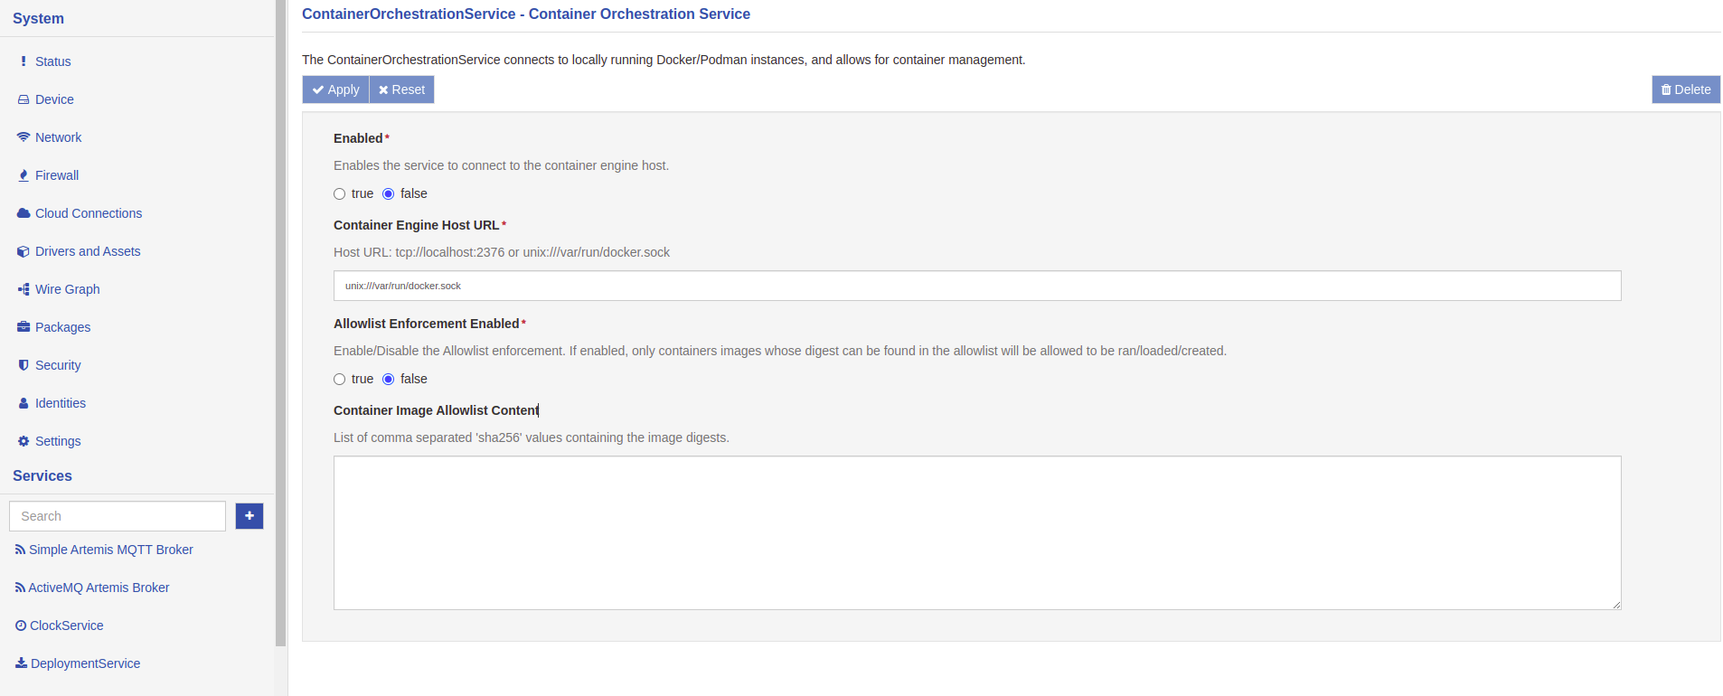
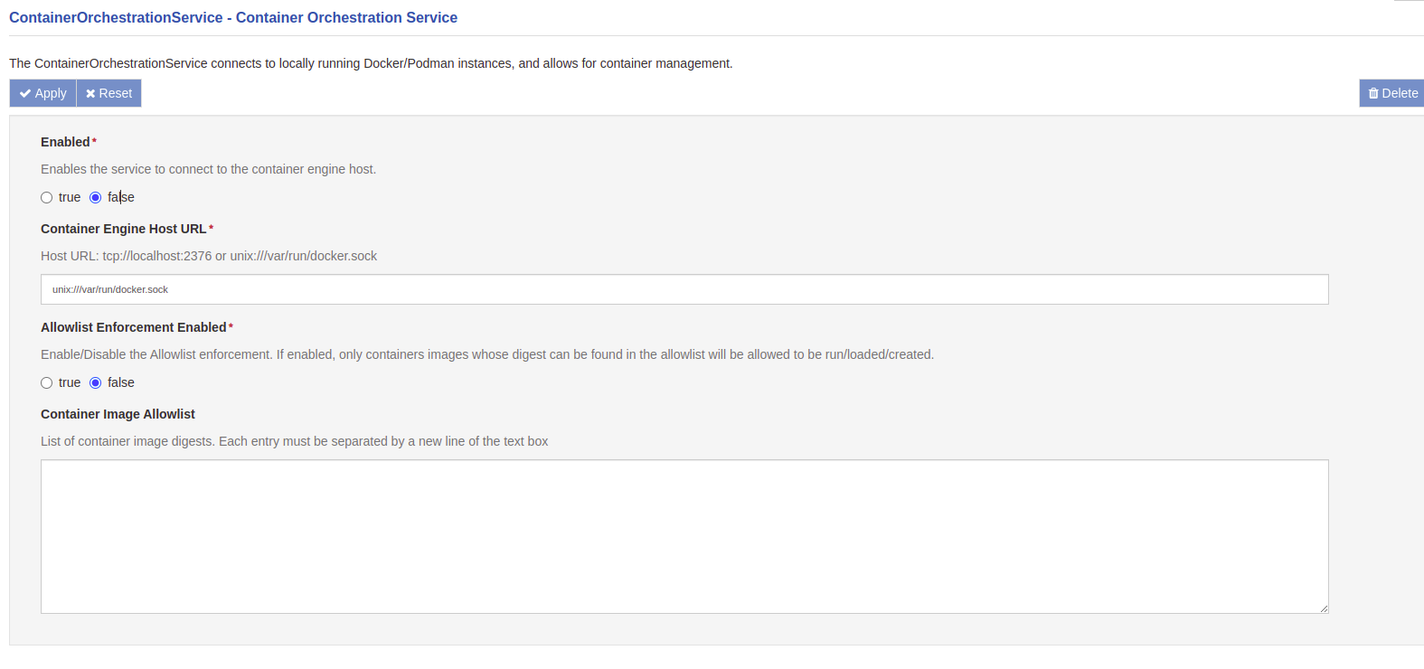
docs: added documentation for container authenticity and enforcement allowlist (#5205)
* docs: add page for container auth and allowlist features

* docs: add docs about managed containers

* docs: possible merge between already present docs and primal contribution

* docs: removed auth from usage and added signature verification examples

* docs: fixed wrong images name

* docs: apply suggestions from code review

* docs: updated with suggestions

* refactor: minor rewording

---------

diff --git a/docs/core-services/container-orchestration-image-auth.md b/docs/core-services/container-orchestration-image-auth.md
@@ -1,0 +1,139 @@
+# Eclipse Eclipse Kura Container Image Authenticity and Allowlist Enforcement feature
+
+Containerized applications are becoming increasingly popular in the software ecosystem as a way to deploy and distrubute applications. As a result, ensuring the security of software supply chains has become a critical concern. Implementing best practices, such as signing and verifying images to mitigate man-in-the-middle (MITM) attacks and validating their authenticity and freshness, play a pivotal role in safeguarding the integrity of the software supply chain.
+
+To ensure the authenticity and integrity of the code within the container images, binding the image to a specific entity or organization via signature verification is crucial and increasingly common.
+
+The purpose of this document is to provide a high-level understanding of the Eclipse Kura container authenticity and allowlist enforcement feature introduced with **Eclipse Kura version 5.5.0**.
+
+## High-level flow
+
+The Eclipse Kura container authenticity and allowlist enforcement feature is designed to address container authenticity concerns by providing a mechanism to perform the signature verification of container images and restricting which container images can be deployed on the Eclipse Kura instance.
+
+This is achieved by implementing the following flow:
+
+![](./images/container-auth-high-level-flow.png){ width="600" }
+
+Description of the flow:
+
+- **Monitoring**: Eclipse Kura monitors the container engine events. When a "container start" event is triggered it intercepts the information regarding the image used to spin up the container and starts performing the container authenticity checks.
+- **Allowlist**: Firstly, it checks if the digest of the image used to run the container can be found in the Eclipse Kura allowlist. If so, the container is allowed to run. If not, Eclipse Kura proceeds with the image signature verification.
+- **Signature verification**: If no trust anchor (i.e. a public key or a X509 certificate depending on the signature mechanism) is available for the verification process to happen, the container is not allowed to run. If one is available, the image signature is verified and the allowlist is updated accordingly.
+
+This flow applies to both containers managed by Eclipse Kura itself and containers ran directly by the user via CLI, allowing for a fine-grained control over the container images that can be deployed on the Eclipse Kura instance.
+
+- **Unmanaged containers**: Eclipse Kura allows the user to define a list of container images that can be deployed on the platform. This is done by adding the image digests to the allowlist. When a container is started, Eclipse Kura checks if the image digest is in the allowlist and, if so, allows the container to run. This is meant to be used by users who, for any reason, need to run a container _outside_ the Eclipse Kura framework but still want the safety guarantees provided by pinning the images to a specific digest.
+- **Managed containers**: For containers ran by the framework, Eclipse Kura also allows the user to provide a trust anchor to be used for the signature verification process. This allows the user to use a _mutable_ tag when specifying the container image, without giving up the required authenticity checks. Once the image is verified, its digest is stored within the Eclipse Kura allowlist, permitting it to be ran both from Eclipse Kura and the CLI without the need for an Internet connection. When a new image is published, the user can simply trigger the pull. The verification process will update the digest automatically.
+
+Note that the user can still directly provide an image digest when running an Eclipse Kura-managed container. This will prevent the Eclipse Kura automatic signature verification process to run. This feature is meant to be used when:
+
+- the user already ensured the image authenticity and does not want to go through the verification process again
+- the image was not signed but the user still wants the enforcement trust guarantees provided by Eclipse Kura
+
+## Unmanaged containers
+
+Regarding the containers not managed by Eclipse Kura, the Container Orchestration service provides a security feature which enforces the containers allowed to run on the system. This feature can be enabled or disabled through the `Allowlist Enforcement Enabled` option.
+
+This mechanism leverages the concept of _digest_, which is a unique and immutable identifier for a container image: it is therefore an excellent mean to identify the image from which a container was created.
+
+Given the above, Eclipse Kura allows the user to provide a list of container image digests in the `Container Image Allowlist` field, in the form of newline-separated strings: when a container is started on the host system (whether it is launched by Eclipse Kura or by a terminal CLI), Eclipse Kura retrieves the image from which the container was created, extracts the digest and verifies that it is present in the allowlist provided during service configuration.
+
+If the image digest is present and matches the container's one, it is then allowed to run without interference. Otherwise, it is immediately stopped and deleted from the host system.
+
+A similar behaviour is performed at Eclipse Kura startup or when the enforcement is enabled at runtime: if there are already containers on the device (whether they are started or stopped) and the enforcement is activated, Eclipse Kura extracts the digests from the containers and compares them with those in the allowlist. Containers that have been created from images whose digests are in the allowlist will be left running, otherwise they will be stopped and deleted from the descriptors list.
+
+The verification is performed by intersecting the list of digests extracted by the containers and the one provided in the configuration: in this way, an empty intersection will result in a failing verification, while a non-empty one means that the image digests is equal to one of the allowlist entries.
+
+![Enforcement Flow](./images/container-orchestration-provider-enforcement-flow.png)
+
+### Example scenarios
+
+A user wants to leverage the container enforcement in order to let only docker containers started from an image named `foo_image` to be run on the device. To do this, they should enable the Container Enforcement by setting the `Allowlist Enforcement Enabled` to `true`, and fill the `Container Image Allowlist` field with the digest of the `foo_image` docker image (i.e.`sha256:0000000000000000000000000000000000000000000000000000000000000000` in the example below).
+
+![Container Orchestration Provider Enforcement](./images/container-orchestration-provider-enforcement.png)
+
+#### Startup of the Enforcement Feature
+
+Let's suppose that on the device there are already two containers running, one created from the `foo_image` an one from an image named `unwanted_image` with digest `sha256:9999999999999999999999999999999999999999999999999999999999999999`. Once the enforcement starts with the configuration previously described, it extracts the digests of both containers and checks if they're included in the provided allowlist: in this case, the container originating from the `foo_image` will be allowed to run, while the one created from the `unwanted_image` will be stopped and deleted, because its digest is not included in the allowlist.
+
+The same happens also for already stopped containers: if the digests is verified, they'll be left in the descriptors list in the Stopped state, otherwise they'll be deleted.
+
+#### Running Container After Enforcement Feature Startup
+
+After the starting phase just described, Eclipse Kura will continuously monitor the activity of the docker engine. Whenever a container is started on the device, it will check the image digest from which the container was created, comparing it to the ones inside the allowlist: if the container is created from the `foo_image` docker image, it will be allowed to start, otherwise it will be stopped and deleted. If the user wants to add more than one allowed image, for example one named `wanted_image` with digest `sha256:1111111111111111111111111111111111111111111111111111111111111111`), it just needs to add it to the newline-separated list.
+
+![Container Orchestration Provider Enforcement Multiple Digests](./images/container-orchestration-provider-enforcement-multiple-digests.png)
+
+
+## Managed containers
+
+As explained in the previous section, Managed Containers (i.e. `org.eclipse.kura.container.provider.ContainerInstance`s) support Container Signature validation. To do so a new API has been introduced: the [`ContainerSignatureValidationService`](https://github.com/eclipse/kura/blob/develop/kura/org.eclipse.kura.api/src/main/java/org/eclipse/kura/container/signature/ContainerSignatureValidationService.java).
+
+Currently, there are three main mechanism for container signature verification:
+
+- [Docker Content Trust (DCT)](https://docs.docker.com/engine/security/trust/) a.k.a. Notary V1
+- [Notation](https://notaryproject.dev/) a.k.a. Notary V2
+- [Sigstore's Cosign](https://docs.sigstore.dev/signing/quickstart/)
+
+This newly introduced service allows Eclipse Kura to have multiple different Services implementing this interface and, thus, support all major signature mechanisms. A reference implementation for the `ContainerSignatureValidationService` is the `DummyContainerSignatureValidationService` available [in Kura `examples` folder](https://github.com/eclipse/kura/blob/develop/kura/examples/org.eclipse.kura.example.container.signature.validation/src/org/eclipse/kura/example/container/signature/validation/DummyContainerSignatureValidationService.java) for anyone wanting to implement an alternative `ContainerSignatureValidationService`.
+
+When a `ContainerSignatureValidationService` is installed on Eclipse Kura, it gets automatically registered among the available validators and will be used to perform the signature validation. Under the hood, the `ContainerInstance` has a list of the available `ContainerSignatureValidationService` providers that, upon receiving a configuration update, it interrogates to check whether the requested container image is authentic using the provided **Trust Anchor**.
+
+- If even _only one_ service reports the signature as valid, the image signature is considered valid.
+- If none of the available services reports the signature as valid, the image signature is considered _not valid_.
+
+This means that Eclipse Kura doesn't need to prompt the user for selecting the correct `ContainerSignatureValidationService` when performing the check.
+
+Once the image signature is validated, the image digest is stored in the Eclipse Kura snapshot and added to the `ContainerOrchestratorService` allowlist (see section above). A container whose image digest is available in the allowlist won't be validated again, therefore after the initial check, the internet connection is no longer required for it to work.
+
+### Example Scenarios
+
+#### Container Instance Digest
+
+Let's suppose to have a device on which Eclipse Eclipse Kura is running with the Container Orchestration Service enabled, its Enforcement feature disabled and a Container Instance named `test-container` up and running on the system.
+
+A user wants to activate the Enforcement feature, so it enables the `Allowlist Enforcement Enabled` option in the Container Orchestration Service, but leaves the `Container Image Allowlist` option blank because it wants that no containers are started outside the framework.
+
+As the feature starts, it checks all the container running on the device, including the `test-container`, which will be stopped and deleted: this happens because the container digest is not included in the Container Orchestration Service Allowlist and the Container Instance is not providing any information through its `Container Image Enforcement Digest` option.
+
+![Container Instance Schema Failure](./images/container-instance-enforcement-failure.png)
+
+In order to allow the Container Instance, the user should provide the correct digest in the instance settings. Let's suppose that the digest of the image from which the container is created is `sha256:0000000000000000000000000000000000000000000000000000000000000000` and that the user fills the corresponding option with it: once the Container Instance is updated, the provided digest is included in the Enforcement feature allowlist, so the container will be allowed to run without interference. This case can be summarised as:
+
+![Container Instance Schema Success](./images/container-instance-enforcement-success.png)
+
+Once the instance digest is added to the enforcement feature, it can be used also to authorise container run by the Command Line Interface, or other instances on Eclipse Eclipse Eclipse Kura without providing the digest option. But what happen if the Container Instance is disabled? The aim of the Container Instance Enforcement Digest is to be used as an authorization method of the instance itself: this means that its digest is added to the enforcement feature allowlist **only if the instance is enabled**.
+
+![Schema with disabled instances](./images/schemaWithoutInstances.png)
+
+As it can be seen from the image, the merged `Enforcement Allowlist` box doesn't contain the digest associated to the Container Instance, because, being it disabled, the corresponding digest is ignored. If the enforcement is enabled and a container with digest *DIGEST Z* is started, it will then be stopped and deleted, because its digest won't be included in the allowlist.
+
+Finally, everytime a *Container Image Enforcement Digest* option is modified, or the ContainerInstance is disabled or deleted, the enforcement feature will perform a check on all the already running containers. This is done because, if the digest that was previously provided has changed after an instance update, or removed due to disabling or deleting the instance, those containers that were previously authorised by this digest are no longer allowed to run. So they must be stopped and deleted.
+
+!!! warning
+
+    The digests provided through Container Instances allow running also container started by the **C**ommand**L**ine**I**nterface or by other Container Instances in the framework, even without providing the digest.
+    
+    It has to be considered that, if the ContainerInstance is disabled (or its digest option changes), the enforcement feature will stop and delete the containers that are no longer matching the provided digest.
+
+    The user needs to be careful, then, to rely only on the digests set in the ContainerInstances options. If the user will need to run containers from the CLI, it is preferable to use the allowlist of the Container Orchestration Service. For the Container Instances, is a good practise to provide a digest.
+
+#### Container Signature Verification
+
+If the *Container Image Enforcement Digest* option is not provided, Eclipse Eclipse Kura will proceed with the Signature Verification: this process tries to extract the digest of the image from which the container was started.
+
+Let's then suppose that we are back at the [beginning of the previous example](#container-instance-digest), with a blank Container Orchestration Service allowlist and a not given Container Instance Digest, but this time a *Trust Anchor* option is given: in this case Eclipse Eclipse Kura will start the Signature Verification Process, in order to extract the digest.
+
+If, for whatever reason, the Signature Verification fails, no digests will be added to the allowlist: if the enforcement feature is enabled, the started container will be then stopped and deleted by the Enforcement Monitor, because no digests are included in the final Enforcement Allowlist.
+
+![Enforcement Flow With Instances And Signature Failed](./images/container-instance-signature-fail.png)
+
+While, if the procedure completes correctly, the extracted digest will be added to the Enforcement Allowlist and written in the snapshot: in this way the container will pass the enforcement feature check, and the obtained digest will be stored as part of the  Container Instance's configuration just started.
+
+![Enforcement Flow With Instances And Signature Success](./images/container-instance-signature-success.png)
+
+If the user wants to check again the digest through the Signature Verification Service, it just needs to erase the *Container Image Enforcement Digest* option from the configuration of the Container Instance: in this way the Signature feature will be triggered again and the digest recalculated.
+
+!!! warning
+
+    Even in this situation, the digest could be used to authenticate container started from the CommandLineInterface: also in this case keep in mind that if the Container Instance is disabled, stopped or updated with different digest, those CLI-based container could be stopped and deleted.

diff --git a/docs/core-services/container-orchestration-provider-usage.md b/docs/core-services/container-orchestration-provider-usage.md
@@ -42,6 +42,12 @@ To begin configuring the container, look under **Services** and select the item 
   
 - **Image Tag** - Describes the version of the container image that will be used to create the container.
 
+- **Trust Anchor** - Trust anchor used to verify the container image [Signature Verification](./container-orchestration-image-auth.md#container-signature-verification)
+
+- **Verify in transparency log** - Sets the transparency log verification, to be used when a container image signature has been uploaded to the transparency log.
+
+- **Container Image Enforcement Digest** - A string representing the digest for the image that will be allowed to run by this container instance (eg: `sha256:0000000000000000000000000000000000000000000000000000000000000000`). It is used in the [Container Enforcement](./container-orchestration-image-auth.md) service provided by the Container Orchestration Service.
+
 - **Authentication Registry URL** - URL for an alternative registry to pull images from. (If the field is left blank, credentials will be applied to Docker-Hub). Please see the [Authenticated Registries](./container-orchestration-provider-authenticated-registries.md) document for more information about connecting to different popular registries.
 
 - **Authentication Username** - Describes the username to access the container registry entered above.
@@ -84,8 +90,6 @@ To begin configuring the container, look under **Services** and select the item 
 
 - **Restart Container On Failure** - A boolean that tells the container engine to automatically restart the container when it has failed or shut down.
 
-- **Container Image Enforcement Digest** - A string representing the digest for the image that will be allowed to run by this container instance (eg: `sha256:0000000000000000000000000000000000000000000000000000000000000000`). It is used in the [Container Enforcement](#container-enforcement) service provided by the Container Orchestration Service.
-
 After specifying container parameters, ensure to set **Enabled** to **true** and press **Apply**. The container engine will then pull the respective image, spin up and start the container. If the gateway or the framework is power cycled, and the container and Container Orchestration Service are set to **enabled**, the framework will automatically start the container again upon startup.
 
 ![Container Orchestration Provider Container Configuration](./images/container-orchestration-provider-container-configuration.png)
@@ -104,78 +108,3 @@ To stop the container without deleting the component, set the **Enabled** field 
 ## Container Management Dashboard
 
 The Container Orchestration service also provides the user with an intuitive container dashboard. This dashboard shows all containers running on a gateway, including containers created with the framework and those created manually through the command-line interface. To utilize this dashboard the `org.eclipse.container.orchestration.provider` (ContainerOrchestrationService) must be enabled, and the dashboard can be opened by navigating to Device > Containers.
-
-## Container Enforcement
-
-The Container Orchestration service also provides a security feature which dictates the containers allowed to run on the system. This feature can be enabled or disabled through the `Allowlist Enforcement Enabled` option.
-
-This mechanism leverages the concept of _digest_, which is a unique and immutable identifier for a container image: it is therefore an excellent mean to identify the image from which a container was created.
-
-Given the above, Kura allows the user to provide a list of container image digests in the `Container Image Allowlist` field, in the form of newline-separated strings: when a container is started on the host system (whether it is launched by Kura or by a terminal CLI), Kura retrieves the image from which the container was created, extracts the digest and verifies that it is present in the allowlist provided during service configuration.
-
-If the image digest is present, the container is allowed to proceed without interference, otherwise it is immediately stopped and deleted from the host system.
-
-A similar behaviour is performed at Kura startup or when the enforcement is enabled at runtime: if there are already containers on the device (whether they are started or stopped) and the enforcement is activated, Kura extracts the digests from the containers and compares them with those in the allowlist. Again, containers that have been created from images whose digests are in the allowlist will be left intact, otherwise they will be stopped and deleted from the descriptors list.
-
-The verification is performed by intersecting the list of digests extracted by the containers and the one provided in the configuration: in this way, an empty intersection will result in a failing verification, while a non-empty one means that the image digests is equal to one of the allowlist entries.
-
-![Enforcement Flow](./images/container-orchestration-provider-enforcement-flow.png)
-
-### Example scenarios
-
-A user wants to leverage the container enforcement in order to let only docker containers started from an image named `foo_image` to be run on the device. To do this, they should enable the Container Enforcement by setting the `Allowlist Enforcement Enabled` to `true`, and fill the `Container Image Allowlist` field with the digest of the `foo_image` docker image (i.e.`sha256:0000000000000000000000000000000000000000000000000000000000000000` in the example below).
-
-![Container Orchestration Provider Enfrocement](./images/container-orchestration-provider-enforcement.png)
-
-#### Startup of the Enforcement Feature
-
-Let's suppose that on the device there are already two containers running, one created from the `foo_image` an one from an image named `unwanted_image` with digest `sha256:9999999999999999999999999999999999999999999999999999999999999999`. Once the enforcement starts with the configuration previously described, it extracts the digests of both containers and checks if they're included in the provided allowlist: in this case, the container originating from the `foo_image` will be allowed to run, while the one created from the `unwanted_image` will be stopped and deleted, because its digest is not included in the allowlist.
-
-The same happens also in case the containers are stopped: if the digests is verified, they'll be left in the descriptors list in the Stopped state, otherwise they'll be deleted.
-
-#### Running Container After Enforcement Feature Startup
-
-After the starting phase just described, Kura will continuously monitor the activity of the docker engine. Whenever a container is started on the device, it will check the image digest from which the container was created, comparing it to the ones inside the allowlist: if the container is created from the `foo_image` docker image, it will be allowed to start, otherwise it will be stopped and deleted. If the user wants to add more than one allowed image, for example one named `wanted_image` with digest `sha256:1111111111111111111111111111111111111111111111111111111111111111`), it just needs to add it to the newline-separated list.
-
-![Container Orchestration Provider Enfrocement Multiple Digests](./images/container-orchestration-provider-enforcement-multiple-digests.png)
-
-
-## Container Instance Enforcement
-
-The [Container Instance configuration](#configuring-the-container) contains an option called *Container Image Enforcement Digest*, that allows to add a specific digest to the enforcement allowlist. When this is specified, only the matching image is allowed to execute. The framework will strictly enforce the policy to the containers running, in order to match a 1:1 relationship between running containers and defined container instances. 
-
-Whenever Eclipse Kura executes a *digest-scan* on the running containers, the digests provided in the Container Instances configurations are added to the Container Orchestration Allowlist: in this way, the authorised images will be not only the ones identified by the Allowlist digests, but also the ones specified through the *Container Image Enforcement Digest* options.
-
-Everytime the enforcement feature performs a check on its startup or when a new container is started, it will consider as authorized all the digests included in the Container Orchestration Allowlist and those provided by the enabled Container Instances in Eclipse Kura through the *Container Image Enforcement Digest* option.
-
-### Example Scenario
-
-#### Container Instance Digest
-
-Let's suppose to have a device on which Eclipse Kura is running with the Container Orchestration Service enabled, its Enforcement feature disabled and a Container Instance named `test-container` up and running on the system.
-
-A user wants to activate the Enforcement feature, so it enables the `Allowlist Enforcement Enabled` option in the Container Orchestration Service, but leaves the `Container Image Allowlist` option blank because it wants that no containers are started outside the framework (for details see the [Container Enforcement paragraph](#container-enforcement)).
-
-As the feature starts, it checks all the container running on the device, including the `test-container`, which will be stopped and deleted: this happens because the container digest is not included in the Container Orchestration Service Allowlist and the Container Instance is not providing any information through its `Container Image Enforcement Digest` option.
-
-![Container Instance Schema Failure](./images/container-instance-enforcement-failure.png)
-
-In order to allow the Container Instance, the user should provide the correct digest in the instance settings. Let's suppose that the digest of the image from which the container is created is `sha256:0000000000000000000000000000000000000000000000000000000000000000` and that the user fills the corresponding option with it: once the Container Instance is updated, the provided digest is included in the Enforcement feature allowlist, so the container will be allowed to run without interference. This case can be summarised as:
-
-![Container Instance Schema Success](./images/container-instance-enforcement-success.png)
-
-Once the instance digest is added to the enforcement feature, it can be used also to authorise container run by the Command Line Interface, or other instances on Eclipse Kura without providing the digest option. But what happen if the Container Instance is disabled? The aim of the Container Instance Enforcement Digest is to be used as an authorization method of the instance itself: this means that its digest is added to the enforcement feature allowlist **only if the instance is enabled**.
-
-![Schema with disabled instances](./images/schemaWithoutInstances.png)
-
-As it can be seen from the image, the merged `Enforcement Allowlist` box doesn't contain the digest associated to the Container Instance, because, being it disabled, the corresponding digest is ignored. If the enforcement is enabled and a container with digest *DIGEST Z* is started, it will then be stopped and deleted, because its digest won't be included in the allowlist.
-
-Finally, everytime a *Container Image Enforcement Digest* option is modified, or the ContainerInstance is disabled or deleted, the enforcement feature will perform a check on all the already running containers. This is done because, if the digest that was previously provided has changed after an instance update, or removed due to disabling or deleting the instance, those containers that were previously authorised by this digest are no longer allowed to run. So they must be stopped and deleted.
-
-!!! warning
-
-    The digests provided through Container Instances allow running also container started by the **C**ommand**L**ine**I**nterface or by other Container Instances in the framework, even without providing the digest.
-    
-    But keep in mind that if the ContainerInstance is disabled (or its digest option changes) the enforcement feature will stop and delete the containers that are no longer matching the provided digest.
-
-    Be careful, then, to rely only on the digests set in the ContainerInstances options. If you think you need to run containers from the CLI, it is preferable to use the allowlist of the Container Orchestration Service. For the Container Instances, is a good practise to provide a digest.
